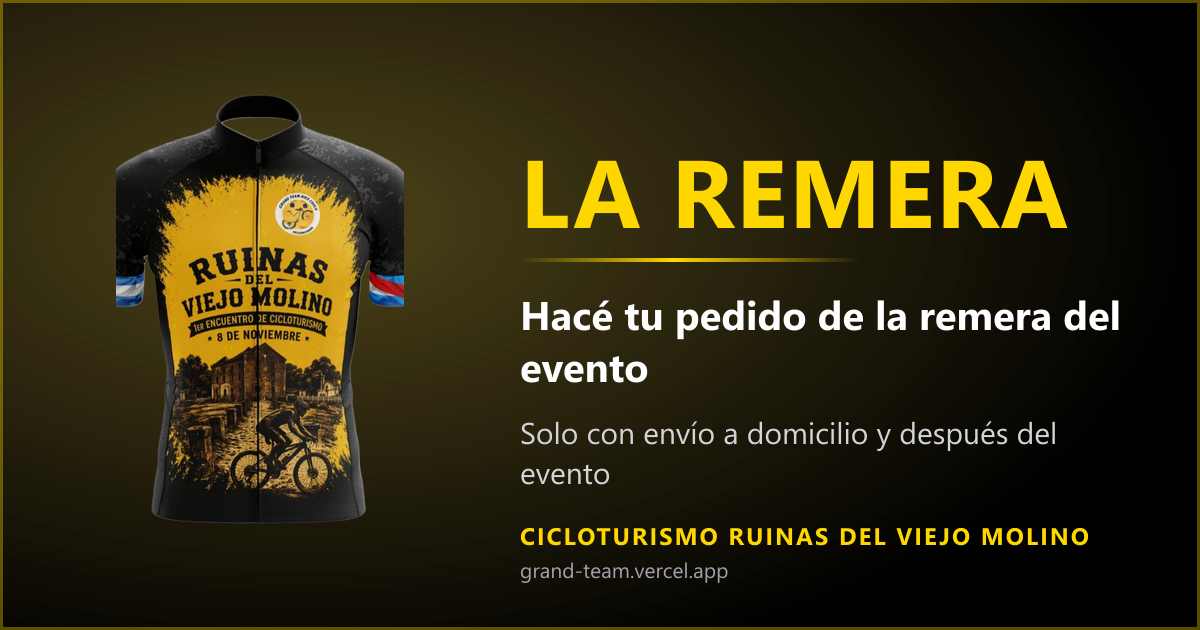
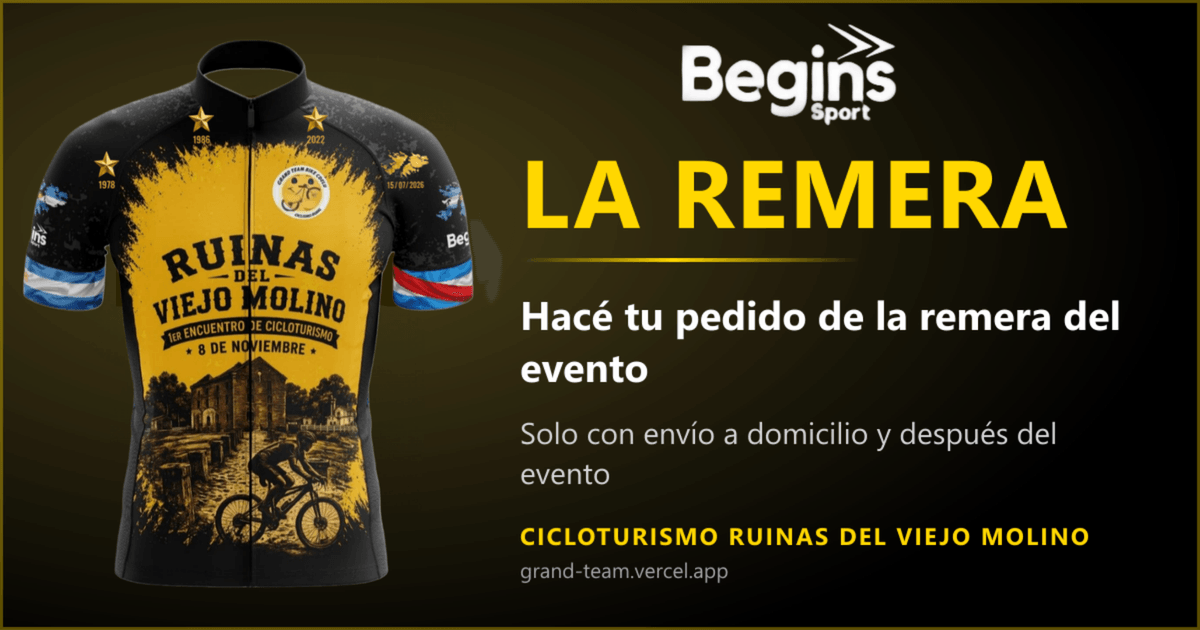
fix: la vista previa de la remera muestra el diseno definitivo
La pieza que se ve al compartir /pedir-remera por WhatsApp estaba armada con
la remera vieja, sin las estrellas ni el logo del sponsor: quien entraba por
ese link veia un diseno distinto del que va a recibir.

Ahora esa vista previa sale de la pieza del diseno (public/remera-og.png) y el
script solo la lleva a 1200x630. Se guarda con paleta porque en PNG completo
pesaba 600 KB y WhatsApp deja de mostrar la imagen grande.

El fallback de /pedir-remera tambien apuntaba a la remera vieja. Solo se usa
si la base no responde, pero mostraba otra remera.

diff --git a/lib/remeraContent.ts b/lib/remeraContent.ts
@@ -54,7 +54,10 @@ export const REMERA_CONTENT_DEFAULTS: RemeraContentData = {
   title: "Remera Grand Team Bike",
   description:
     "Llevate la remera oficial de la edición 2026. Elegí tu talle, adjuntá el comprobante y el equipo coordina la entrega con vos.",
-  images: ["/remera.png"],
+  // El diseño definitivo (con las estrellas y el sponsor). Es el mismo que
+  // tiene cargado el panel: si la base no responde, no se muestra una remera
+  // distinta de la que se va a entregar.
+  images: ["/remerab.png"],
   price: "",
   callToActionTitle: "¿Querés tu remera?",
   callToActionDescription: "",

diff --git a/CLAUDE.md b/CLAUDE.md
@@ -167,8 +167,12 @@ de "Mi QR" se veia igual que el de la inscripcion y no se entendia cual era cual
   el `layout.tsx` de cada ruta: las paginas son client components y no pueden
   exportar `metadata`.
 - Las imagenes viven en `public/og/` y se generan con
-  `node scripts/generar-og.mjs` (negro + dorado + logo; la de la remera muestra
-  la remera). **No se editan a mano**: se cambia el texto en el script.
+  `node scripts/generar-og.mjs` (negro + dorado + logo). **No se editan a
+  mano**: se cambia el texto en el script.
+- La de la remera es la excepcion: la pieza viene del diseño
+  (`public/remera-og.png`, con la remera definitiva y el logo del sponsor) y el
+  script solo la lleva a 1200x630 (`pieza:` en vez de `imagen:`). Para
+  cambiarla se reemplaza ese archivo y se vuelve a correr el script.
 - La home sigue con `METADATOS.png`, que es la pieza de diseño del evento.
 - `e2e/vista-previa.spec.ts` verifica que cada pagina tenga texto e imagen
   propios, que la imagen exista (una vista previa rota se ve peor que ninguna) y
